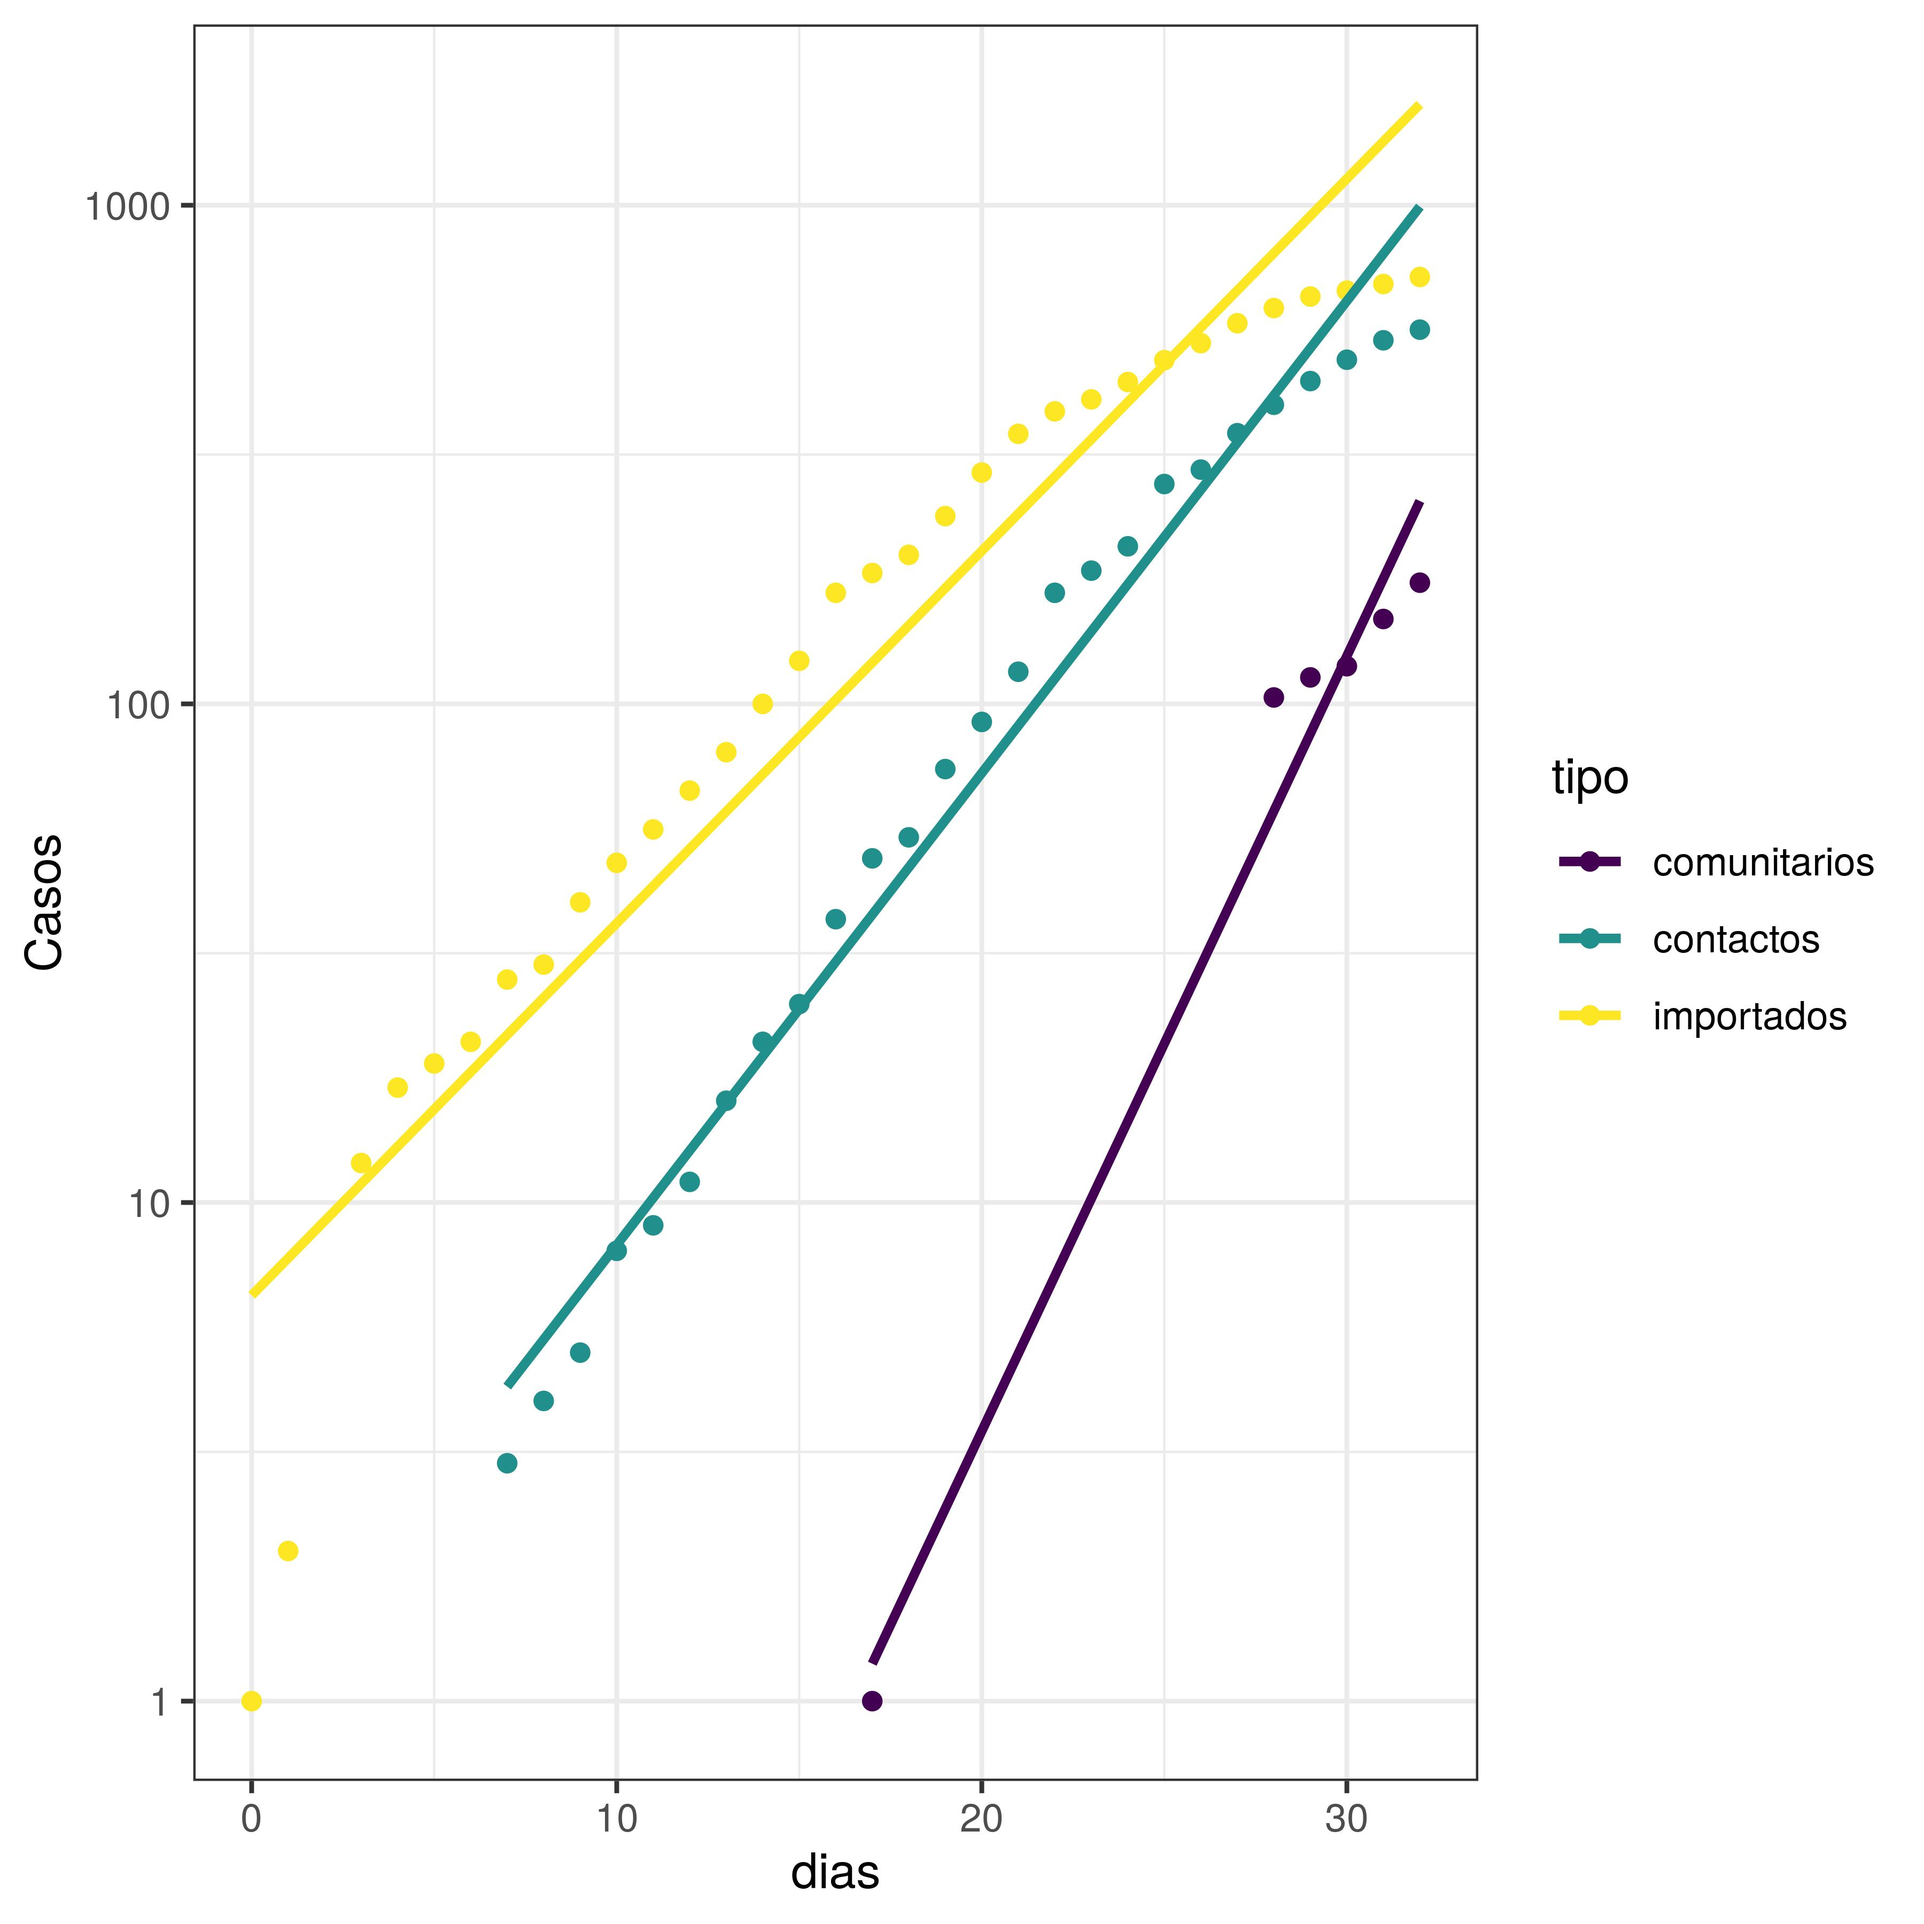
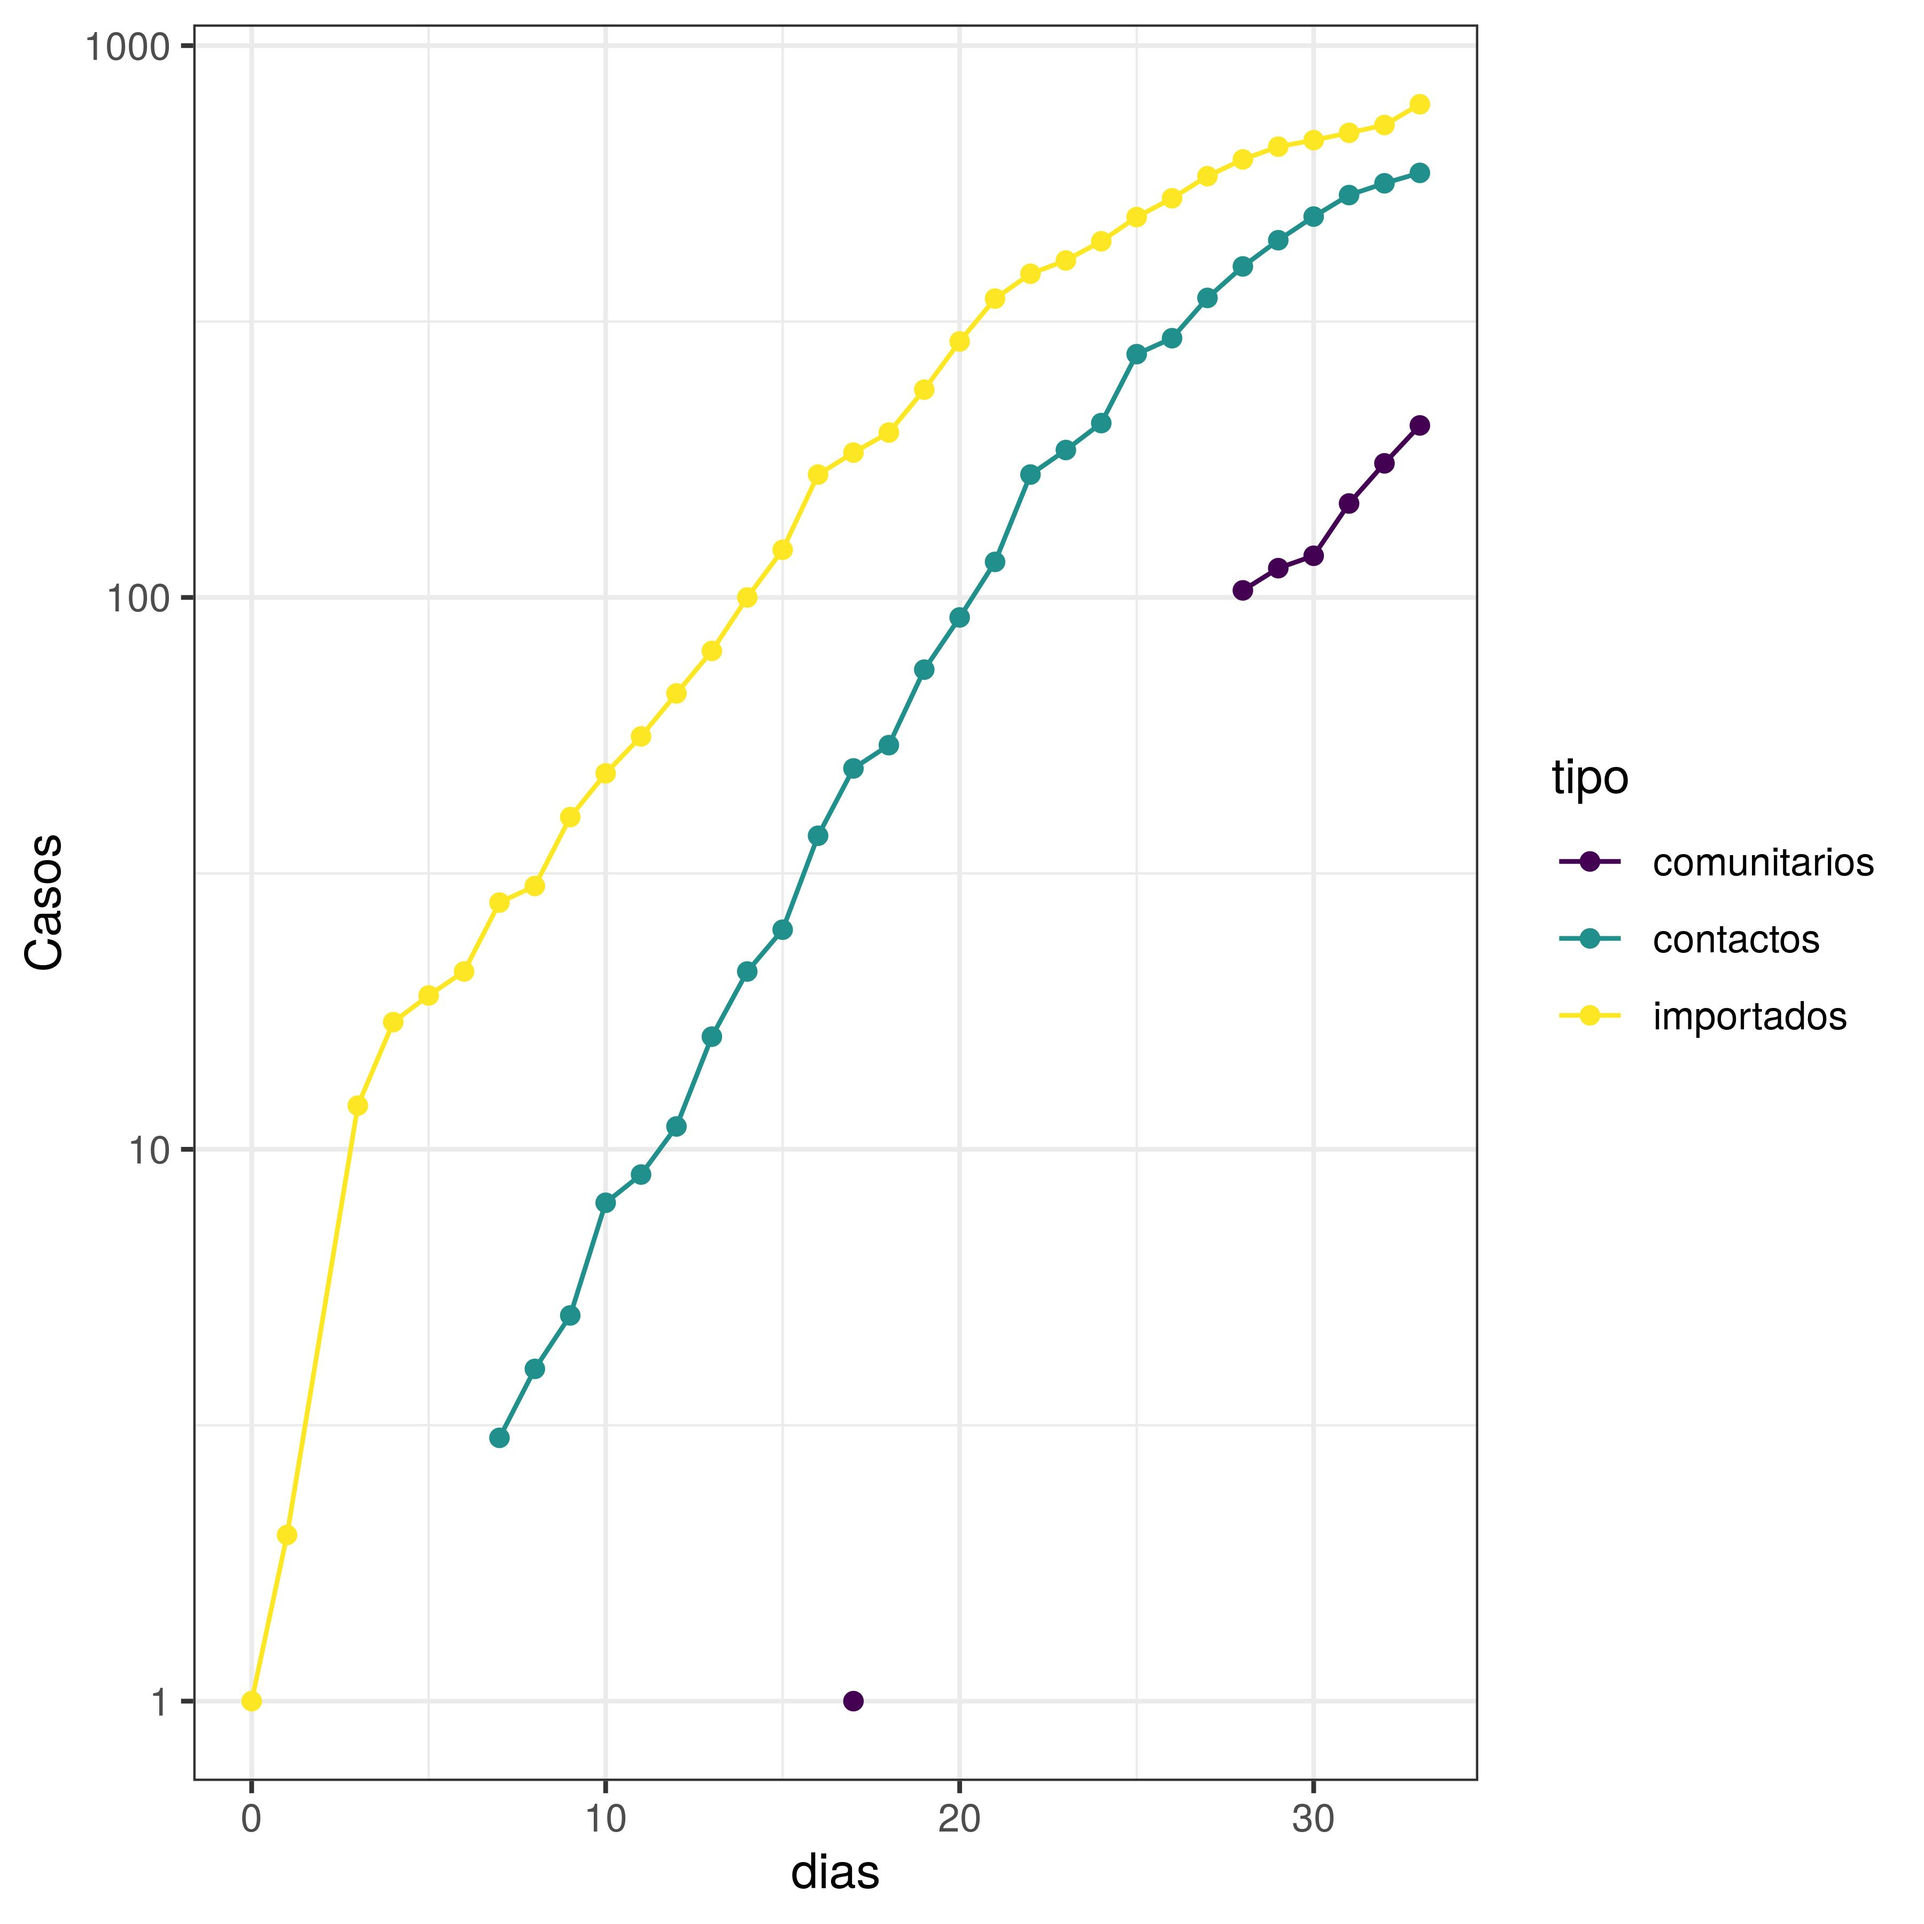
Actualizacion al 2020/04/07 Estimacion de Re y decaimiento

diff --git a/README.md b/README.md
@@ -22,12 +22,13 @@
 
 - [coronavirus.r](coronavirus.r) Código R para estimación de modelos de crecimiento exponencial y logístico. El R0 se calcula para la fase exponencial que termina el día 26/03/2020. El código usa un ajuste por cuadrados mínimos no-lineales y las funciones de los paquete *nls* y *drc* para los ajustes y *ggplot2/tidyverse* para gráficos y bases de datos.   
 
+- [Estima_cambios_Re.Rmd](Estima_cambios_Re.Rmd) Código R markdown para estimación del Número Reproductivo efectivo, tasa de crecimiento y decaimiento, tiempo de duplicacion y de reducción a la mitad, proyección de la fase de decaimiento
+
+
 ![](coronaArTotalesLog.jpg)
-
-
-![](coronaArNuevosVsTotales.jpg)
 
 ![](coronaArComparacionComunitarios.jpg)
 
 ![](coronaGlobalNuevosVsTotales.jpg)
 
+![](coronaArProyeccionDecaimiento.jpg)
